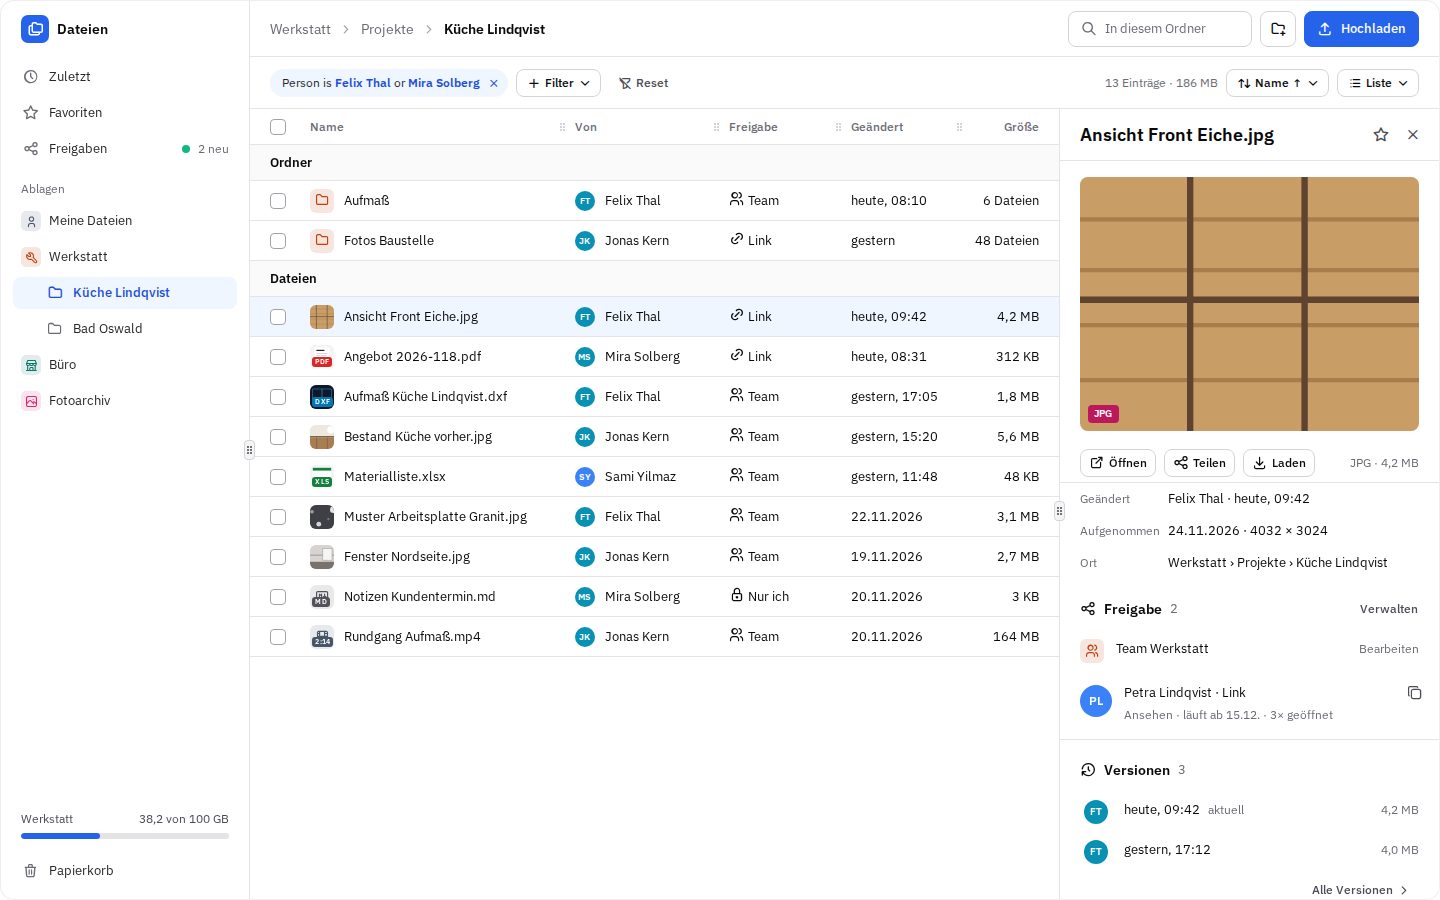
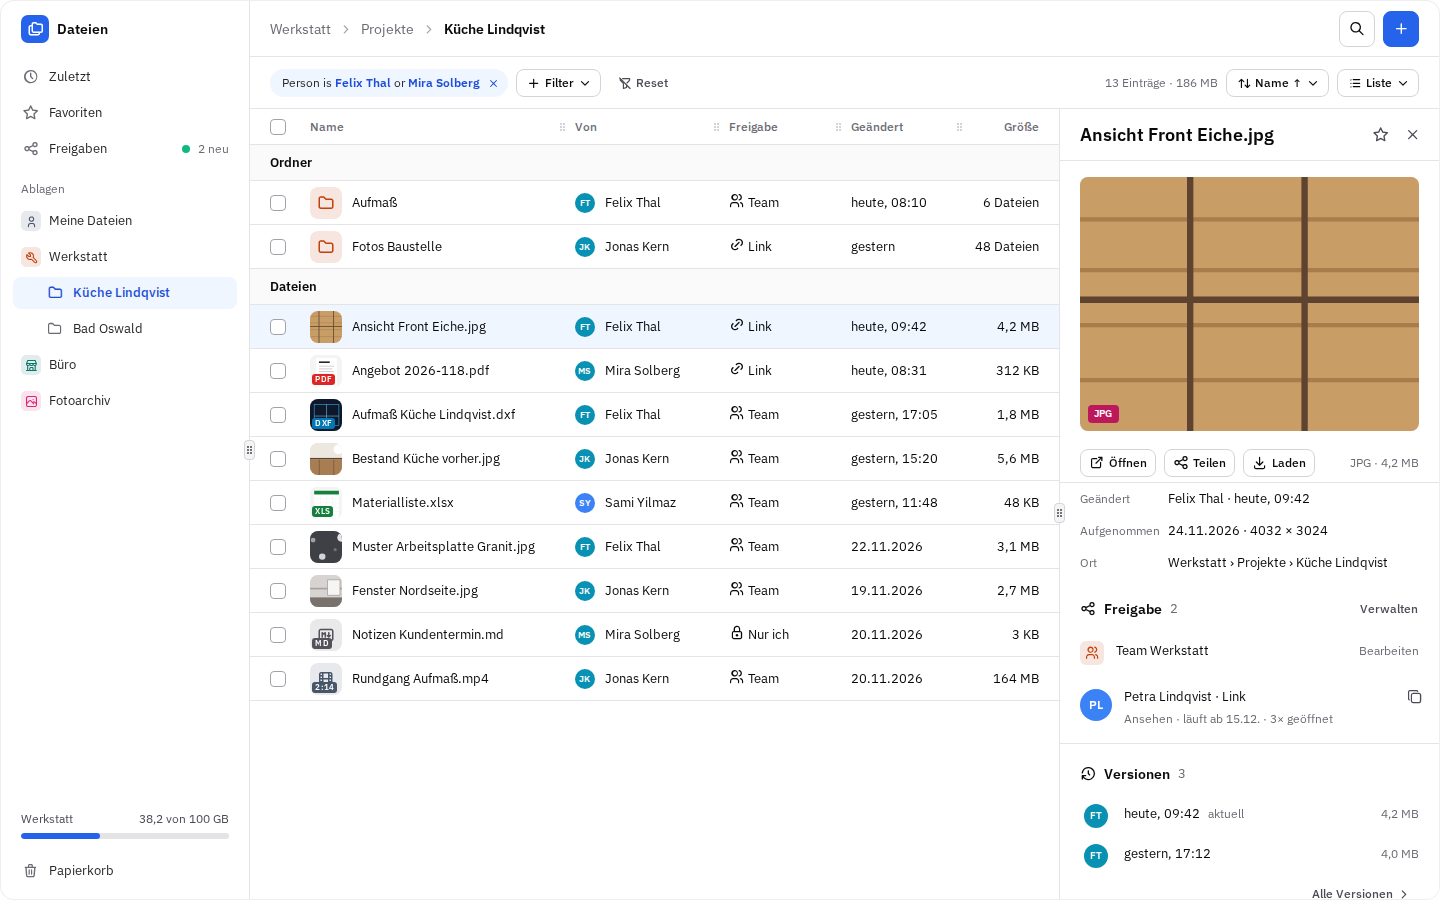
fix(ui): v2 a team and a person in one section start their names on one edge

diff --git a/packages/ui/src/v2/v2.css b/packages/ui/src/v2/v2.css
@@ -2307,7 +2307,8 @@
   min-height: var(--k2-h-row-mark);
   padding-block: 6px;
 }
-.k2-ui :is(.k2-list:has(> .k2-row > .k2-row-lead > .k2-mk[data-preview]), .k2-row:has(> .k2-row-lead > .k2-mk[data-preview])) {
+.k2-ui :is(.k2-list, .k2-sec):has(> .k2-row > .k2-row-lead > .k2-mk[data-preview]),
+.k2-ui .k2-row:has(> .k2-row-lead > .k2-mk[data-preview]) {
   --k2-lead: 32px;
   --k2-lead-icon: 18px;
 }
@@ -2326,12 +2327,12 @@
 .k2-ui .k2-row[data-mark] {
   column-gap: 12px;
 }
-/* a person among things (an owner in a list of files): in a list whose rows lead with marks the person takes the
-   marks' size, so every name starts on one edge (12 px after every lead) */
-.k2-ui .k2-list:has(> .k2-row[data-mark]) > .k2-row[data-avatar] > .k2-row-lead {
+/* a person among things (an owner in a list of files, who shares a file beside a team): in a list or section whose
+   rows lead with marks the person takes the marks' size, so every name starts on one edge (12 px after every lead) */
+.k2-ui :is(.k2-list, .k2-sec):has(> .k2-row[data-mark]) > .k2-row[data-avatar] > .k2-row-lead {
   width: var(--k2-lead, 24px);
 }
-.k2-ui .k2-list:has(> .k2-row[data-mark]) > .k2-row[data-avatar] > .k2-row-lead > .k2-av {
+.k2-ui :is(.k2-list, .k2-sec):has(> .k2-row[data-mark]) > .k2-row[data-avatar] > .k2-row-lead > .k2-av {
   width: var(--k2-lead, 24px);
   height: var(--k2-lead, 24px);
 }
@@ -5237,11 +5238,11 @@
     font-size: 22px;
   }
   /* a person among things takes the marks' 40 here too */
-  .k2-ui .k2-list:has(> .k2-row[data-mark]) > .k2-row[data-avatar] > .k2-row-lead,
-  .k2-ui .k2-list:has(> .k2-row[data-mark]) > .k2-row[data-avatar] > .k2-row-lead > .k2-av {
+  .k2-ui :is(.k2-list, .k2-sec):has(> .k2-row[data-mark]) > .k2-row[data-avatar] > .k2-row-lead,
+  .k2-ui :is(.k2-list, .k2-sec):has(> .k2-row[data-mark]) > .k2-row[data-avatar] > .k2-row-lead > .k2-av {
     width: 40px;
   }
-  .k2-ui .k2-list:has(> .k2-row[data-mark]) > .k2-row[data-avatar] > .k2-row-lead > .k2-av {
+  .k2-ui :is(.k2-list, .k2-sec):has(> .k2-row[data-mark]) > .k2-row[data-avatar] > .k2-row-lead > .k2-av {
     height: 40px;
   }
 }

diff --git a/packages/ui/src/v2/head-media.browser.test.ts b/packages/ui/src/v2/head-media.browser.test.ts
@@ -250,6 +250,23 @@ for (const width of [550, 450, 400])
     });
   });
 
+// who shares a file: a team (a mark) and a person in one section start their names on one edge (W1b #4206 r5)
+for (const width of [1440, 390])
+  test(`at ${width} px a team and a person in the sharing of a file start their names on one edge`, async () => {
+    await withPage(
+      "list",
+      async (page) => {
+        const edges = await page
+          .locator(".k2-sec", { hasText: "Freigabe" })
+          .locator(":scope > .k2-row .k2-row-title")
+          .evaluateAll((titles) => titles.map((title) => Math.round(title.getBoundingClientRect().left)));
+        expect(edges.length).toBe(2);
+        expect(new Set(edges).size).toBe(1);
+      },
+      width,
+    );
+  });
+
 // one line between groups: the last row of a group and the head of the next never draw two lines at one edge, in the
 // table and in its phone rows (Valentin 26.11., NO DOUBLE LINES)
 for (const width of [1440, 1024, 390])
